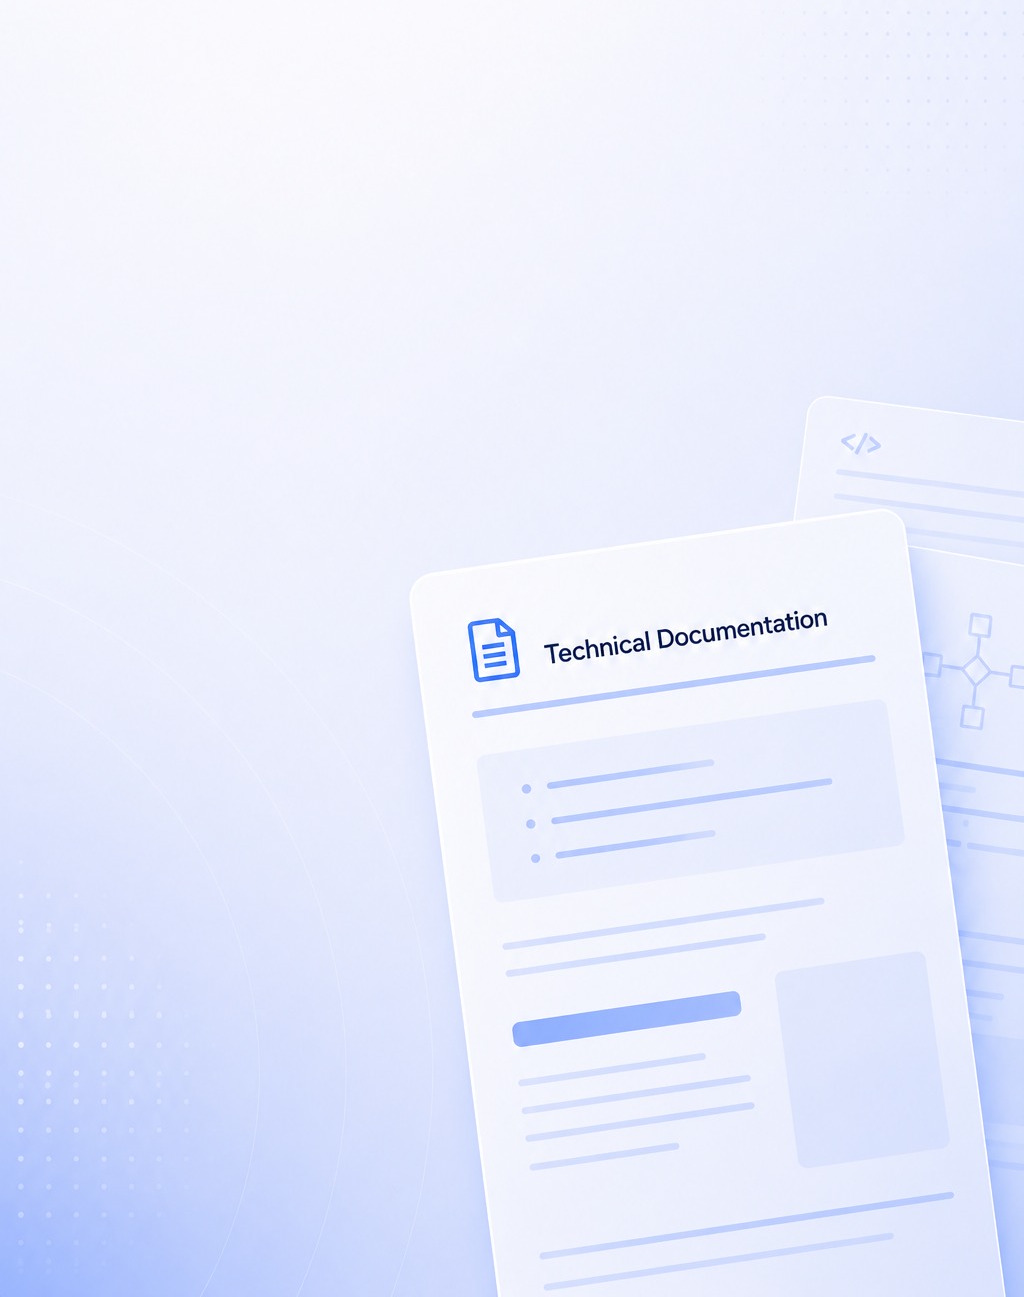
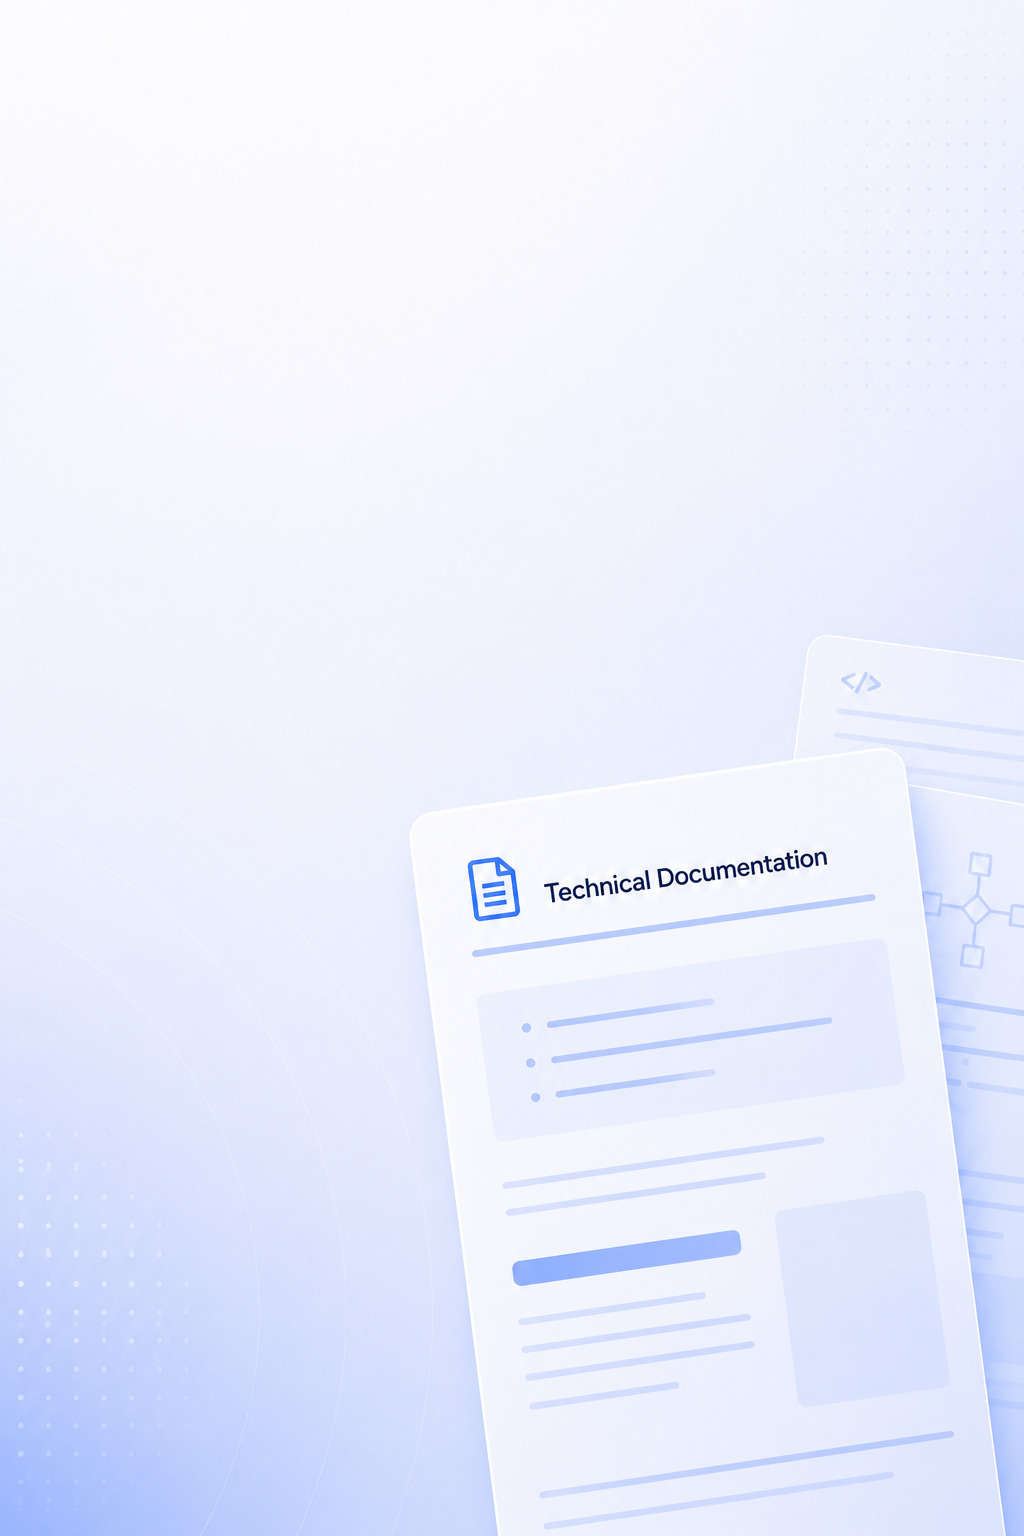
v 6

diff --git a/pages/Portfolio/components/CapabilityCards/index.tsx b/pages/Portfolio/components/CapabilityCards/index.tsx
@@ -4,6 +4,9 @@ import { Link } from "react-router-dom";
 import { PORTFOLIO_CAPABILITIES } from "../../data/capabilities";
 import tecbgImage from "@/src/assets/tecbg.jpeg";
 import probgImage from "@/src/assets/probg.png";
+import marbgImage from "@/src/assets/marbg.jpeg";
+import salbgImage from "@/src/assets/salbg.jpeg";
+import digbgImage from "@/src/assets/digbg.jpeg";
 
 // These titles otherwise stay on one line at wide desktop widths; capping
 // their width forces the same natural two-line wrap "Technical Documentation"
@@ -53,11 +56,20 @@ export function CapabilityCards() {
         {PORTFOLIO_CAPABILITIES.map(({ number, title, description, bullets, href }) => {
           const isTechnicalDocumentation = title === "Technical Documentation";
           const isProductExperience = href === "/work/product-experience";
+          const isProductMarketing = title === "Product Marketing";
+          const isSalesEnablement = title === "Sales Enablement";
+          const isDigitalExperience = title === "Digital Experience";
           const cardBgImage = isTechnicalDocumentation
             ? tecbgImage
             : isProductExperience
               ? probgImage
-              : undefined;
+              : isProductMarketing
+                ? marbgImage
+                : isSalesEnablement
+                  ? salbgImage
+                  : isDigitalExperience
+                    ? digbgImage
+                    : undefined;
           return (
           <Link
             key={number}

diff --git a/pages/Portfolio/components/Hero/index.tsx b/pages/Portfolio/components/Hero/index.tsx
@@ -7,9 +7,9 @@ export function Hero() {
   return (
     <div className="bg-[#FCFCFD]">
       {/* Hero Grid */}
-      <div className="grid grid-cols-1 gap-8 lg:grid-cols-12 lg:gap-12">
+      <div className="grid grid-cols-1 gap-8 lg:grid-cols-12 lg:gap-8">
         {/* Left: Hero Content + Illustration + Stats */}
-        <div className="lg:col-span-9">
+        <div className="lg:col-span-8">
           <div className="grid grid-cols-1 gap-8 lg:grid-cols-9 lg:gap-12">
             {/* Hero Content */}
             <div className="flex items-center lg:col-span-5 lg:items-start">
@@ -33,7 +33,7 @@ export function Hero() {
         </div>
 
         {/* Right: Featured Clients */}
-        <div className="lg:col-span-3 lg:border-l lg:border-neutral-200 lg:pl-8">
+        <div className="lg:col-span-4 lg:border-l lg:border-neutral-200 lg:pl-8">
           <FeaturedClients />
         </div>
       </div>

diff --git a/pages/Portfolio/components/FeaturedClients/index.tsx b/pages/Portfolio/components/FeaturedClients/index.tsx
@@ -17,8 +17,10 @@ export function FeaturedClients() {
       </p>
 
       {/* Heading */}
-      <h2 className="mt-4 text-3xl font-bold leading-tight tracking-tight text-neutral-950 sm:text-4xl">
-        Case studies that show real outcomes
+      <h2 className="mt-4 text-3xl font-bold leading-tight tracking-tight text-neutral-950 sm:text-4xl lg:text-[40px]">
+        Case studies that show{" "}
+        <br className="hidden lg:block" />
+        real outcomes
       </h2>
 
       <div className="mt-8 border-t border-neutral-200" />

diff --git a/pages/Portfolio/components/ProcessTimeline/index.tsx b/pages/Portfolio/components/ProcessTimeline/index.tsx
@@ -17,7 +17,7 @@ export function ProcessTimeline() {
         <p className="text-xs font-semibold uppercase tracking-[0.2em] text-[#0020BF]">
           How We Approach
         </p>
-        <h2 className="mt-6 text-5xl font-bold leading-[1.1] tracking-tight text-neutral-950 sm:text-6xl">
+        <h2 className="mt-6 text-5xl font-bold leading-[1.1] tracking-tight text-neutral-950 sm:text-5xl">
           Engineered
           <br />
           for outcomes

diff --git a/components/Navbar.tsx b/components/Navbar.tsx
@@ -41,7 +41,7 @@ const Navbar: React.FC = () => {
     >
       <div className="max-w-7xl mx-auto px-6 py-4 flex justify-between items-center">
         {/* LOGO */}
-        <Link to="/" className="z-50 relative group flex items-center">
+        <Link to="/" className="z-50 relative group flex items-center -ml-4">
           <motion.div
             initial={{ opacity: 0, scale: 0.9 }} 
             animate={{ opacity: 1, scale: 1 }}

diff --git a/pages/Portfolio/data/hero.ts b/pages/Portfolio/data/hero.ts
@@ -1,4 +1,4 @@
-export const HERO_EYEBROW = "/ Work Library";
+export const HERO_EYEBROW = "Work Library";
 
 export const HERO_HEADING = {
   line1: "Purposeful content.",
